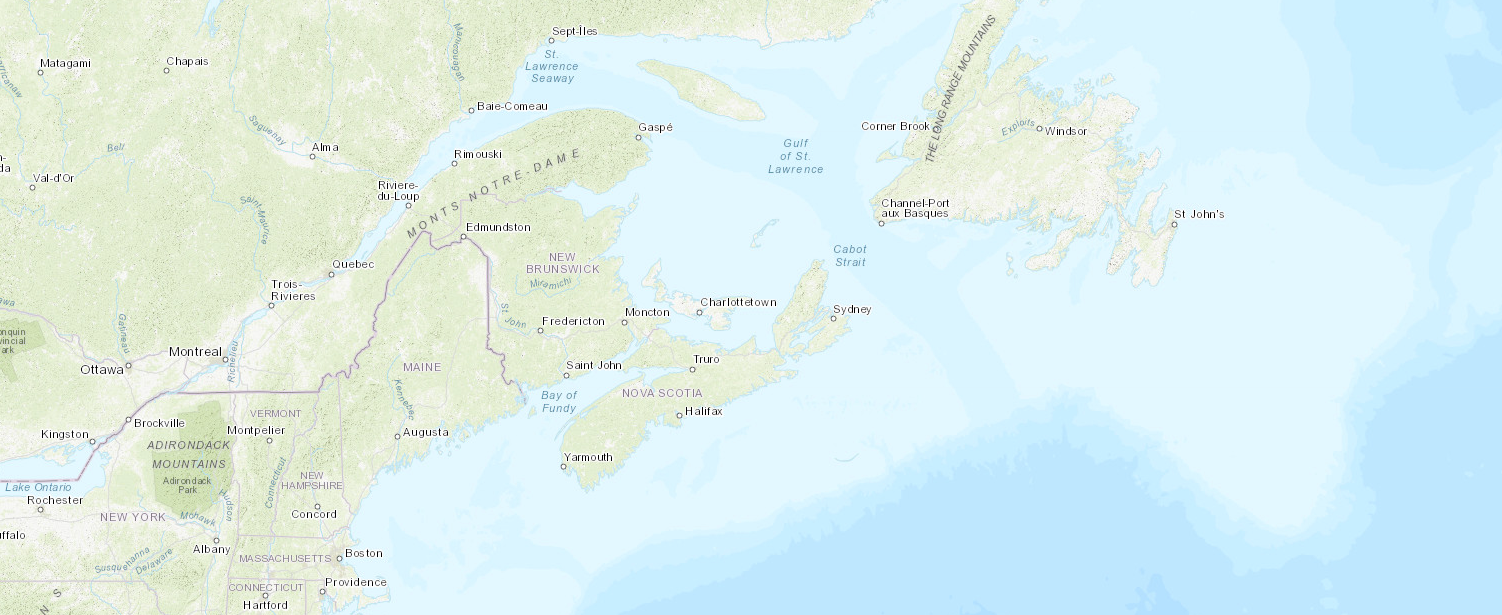
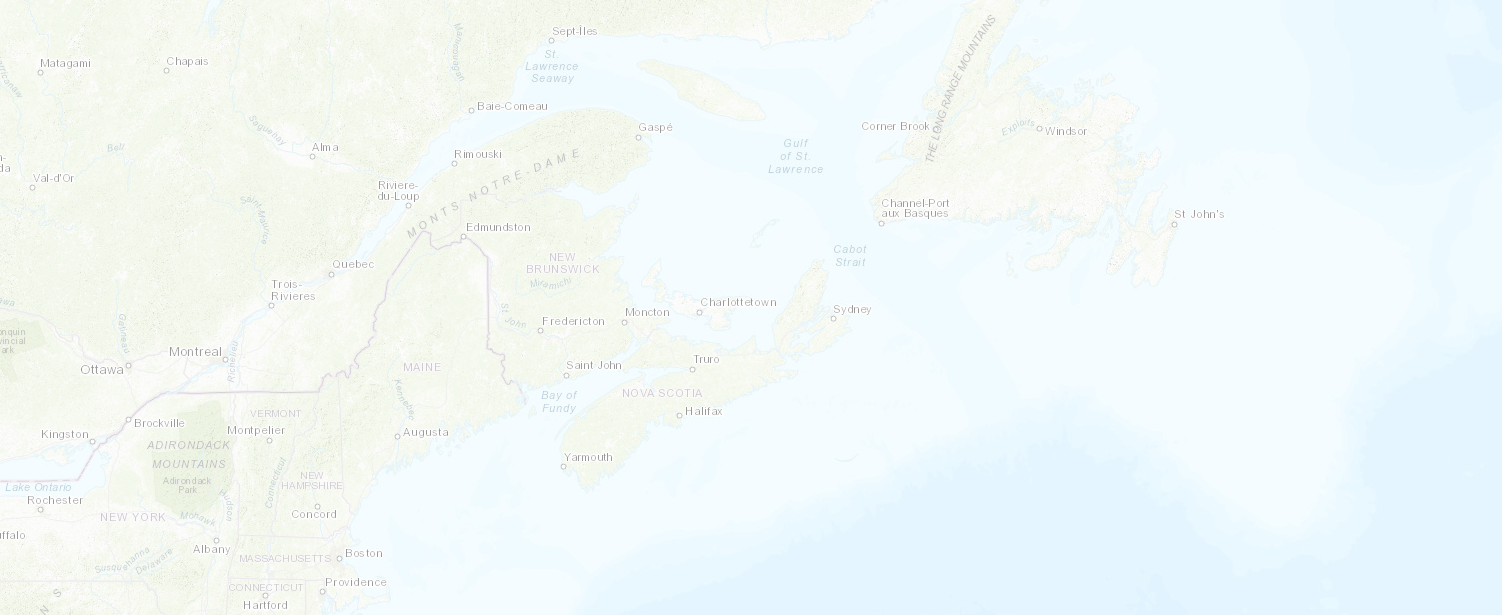
styling and map interactivity

diff --git a/src/index.js b/src/index.js
@@ -8,18 +8,19 @@ import photoModule from 'photos.js'
 
 function loadGpsTracks(map){
   const dayDescriptions = [
-    "Day 2 - First Driving Day - Peggy's Cove.",
-    "Day 3 - Halifax to Englishtown",
-    "Day 4 - Englishtown to Cheticamp",
-    "Day 5 - Cape Breton Park Adventures",
-    "Day 6 - PEI National Park",   
-    "Day 7 - PEI Summerside",   
-    "Day 8 - PEI Kayaking and Exploring the South Coast",   
-    "Day 9 - PEI Charlottetown",   
-    "Day 10 - PEI to St. Johns",   
-    "Day 11 - St. Johns to Moncton",   
-    "Day 11 - Hopewell Rocks",   
-    "Day 11 - Slacks Cove",   
+    "Day 2 First Driving Day - Peggy's Cove [249 km]",
+    "Day 3 Halifax to Englishtown [438 km]",
+    "Day 4 Englishtown to Cheticamp [168 km]",
+    "Day 5 Cape Breton Park Adventures [31 km]",
+    "Day 6 Getting to PEI [365 km]",  
+    "Day 7 PEI National Parks [200 km]",   
+    "Day 8 PEI Lighthouse Museum [239 km]",   
+    "Day 9 PEI Kayaking and Exploring the South Coast [124 km]",   
+    "Day 10 PEI Charlottetown [84 km]",   
+    "Day 11 PEI to St. Johns [421 km]",   
+    "Day 12 St. Johns to Moncton [231 km]",   
+    "Day 13 Hopewell Rocks [153 km]",   
+    "Day 14 Slacks Cove [117 km]",   
   ]
 
   const day2 = require('./gps/day-2-peggys-cove.geojson');
@@ -27,13 +28,14 @@ function loadGpsTracks(map){
   const day4 = require('./gps/day-4-englishtown-to-cheticamp.geojson');
   const day5 = require('./gps/day-5-cape-breton-park.geojson');
   const day6 = require('./gps/day-6-onto-pei.geojson');
-  const day7 = require('./gps/day-7-summerside.geojson');
-  const day8 = require('./gps/day-8-kayaking.geojson');
-  const day9 = require('./gps/day-9-charlottetown.geojson');
-  const day10 = require('./gps/day-10-pei-to-st-john.geojson')
-  const day11 = require('./gps/day-11-st-john-to-moncton.geojson');
-  const day12 = require('./gps/day-12-hopewell-rocks.geojson');
-  const day13 = require('./gps/day-13-slacks-cove.geojson');
+  const day7 = require('./gps/day-7-pei-national-park.geojson');
+  const day8 = require('./gps/day-8-summerside.geojson');
+  const day9 = require('./gps/day-9-kayaking.geojson');
+  const day10 = require('./gps/day-10-charlottetown.geojson');
+  const day11 = require('./gps/day-11-pei-to-st-john.geojson')
+  const day12 = require('./gps/day-12-st-john-to-moncton.geojson');
+  const day13 = require('./gps/day-13-hopewell-rocks.geojson');
+  const day14 = require('./gps/day-14-slacks-cove.geojson');
   const gpsTracks = [
     {track: day2, desc: dayDescriptions[0]},
     {track: day3, desc: dayDescriptions[1]},
@@ -47,6 +49,7 @@ function loadGpsTracks(map){
     {track: day11, desc: dayDescriptions[9]},
     {track: day12, desc: dayDescriptions[10]},
     {track: day13, desc: dayDescriptions[11]},
+    {track: day14, desc: dayDescriptions[12]},
   ]
 
   gpsTracks.forEach((gpsTrack) => gpsModule.addGpsTrack(map, gpsTrack))

diff --git a/src/static/main.css b/src/static/main.css
@@ -4,7 +4,6 @@
 
 #map-container {
     height:65%;
-    width: 100%;
     padding-left: 50px;
     padding-top: 40px;
     padding-right: 50px;
@@ -20,18 +19,27 @@
 
 #header {
     width: 100%; 
-    height: 15%;
+    /* height: 15%; */
     padding-left: 30px;
     padding-top: 10px;
 }
 
+#footer-stats-container {
+  display: flex;
+  flex-direction: row;
+  justify-content: space-around;
+}
+
 #footer-text-container {
-    margin-left: 40px; 
+  display: flex;
+  flex-direction: column;
+  margin-left: 40px; 
+  justify-content: space-between;
+  height: 80px;
 }
 
 #footer-text {
     margin: 0px;
-    height: 5%;
     font-family: 'Open Sans', sans-serif;
     color: #555;
     text-decoration: none;
@@ -46,23 +54,16 @@
 
 body {
     margin: 0;
-    /* background-image: url("background.png"); */
-    max-width: 1800px;
-}
-
-body::before {
-    content: "";
-    position: absolute;
-    top: 0; 
-    left: 0;
-    width: 100%; 
-    height: 100%;  
-    opacity: .4; 
-    z-index: -1;
     background-repeat: no-repeat;
     background-size: cover;
     background-image: url("background.png");
-  }
+    max-width: 1800px;
+}
+
+html, 
+body {
+    height: 100%;
+}
 
 #logo {
   font-family: 'Open Sans', sans-serif;
@@ -76,11 +77,34 @@ body::before {
   text-shadow: #EDEDED 3px 2px 0;
   position: relative;
 }
+
+@media only screen 
+and (min-device-width : 768px) 
+and (max-device-width : 1024px)  {
+  #logo {
+    font-size: 90px;
+  }
+  body {
+    max-width: 1024px;
+  }
+}
+
+@media only screen 
+and (max-device-width : 768px) {
+  #logo {
+    font-size: 90px;
+    }
+    body {
+      max-width: 950px;
+    }
+  
+  }
+
 #logo:after {
-  content:"East Coast Trip";
-  position: absolute;
-  left: 8px;
-  top: 32px;
+  content:"East Coast Trip 2019";
+  position: fixed;
+  left: 22px;
+  top: 18px;
 }
 #logo:after {
   /*background: url(https://subtlepatterns.com/patterns/crossed_stripes.png) repeat;*/

diff --git a/src/gps.js b/src/gps.js
@@ -10,23 +10,27 @@ const filterOnlyPointFeatures = function(features){
 }
 
 const lineWeight = 3;
-const lineOpacity = 0.3;
+const lineOpacity = 0.7;
+
+const onMouseover = (embeddedLayer) => {
+    embeddedLayer.bringToFront()
+    embeddedLayer.setStyle({
+        weight: lineWeight * 2,
+        opacity: 1.0
+    });
+}
+
+const onMouseout = (embeddedLayer) => {
+    embeddedLayer.setStyle({
+        weight: lineWeight,
+        opacity: lineOpacity
+    });
+}
 
 function onEachFeature(feature, outlineLayer, embeddedLayer) {
     outlineLayer.on({
-        mouseover: () => {
-            embeddedLayer.setStyle({
-                weight: lineWeight * 2,
-                opacity: 1.0
-            });
-        },
-        mouseout: () => {
-            embeddedLayer.setStyle({
-                weight: lineWeight,
-                opacity: lineOpacity
-            });
-        },
-        // click: zoomToFeature
+        mouseover: () => onMouseover(embeddedLayer),
+        mouseout: () => onMouseout(embeddedLayer)
     });
 }
 
@@ -58,7 +62,8 @@ const addGpsTrack = (() => {
 
         outlineLayer.addTo(map);
 
-        outlineLayer.bindPopup("Popup content");
+        
+        outlineLayer.bindPopup(gpsTrack.desc, { autoPan: false });
         outlineLayer.on('mouseover', function (e) {
             this.openPopup();
         });
@@ -70,7 +75,9 @@ const addGpsTrack = (() => {
         const lastPoint = points[points.length -1]
 
         L.marker(L.latLng(lastPoint.properties.latitude, lastPoint.properties.longitude), { color: dotColour})
-            .bindPopup(gpsTrack.desc)
+            .on('popupopen', () => onMouseover(embeddedLayer))
+            .on('popupclose', () => onMouseout(embeddedLayer))
+            .bindPopup(gpsTrack.desc, { autoPan: false })
             .addTo(map);
     }
 })();

diff --git a/index.html b/index.html
@@ -12,6 +12,17 @@
       <div id="map" class="fancy-border"></div>
     </div>
     <div id="footer-text-container">
+      <div id="footer-stats-container">
+        <p id="footer-text">
+          Total Distance: 2820 km
+        </p>
+        <p id="footer-text">
+          Provinces: 3
+        </p>
+        <p id="footer-text">
+          Value: Priceless
+        </p>
+      </div>
       <p id="footer-text">
         Merry Christmas Mom! Thank you so much for giving me the gift of this experience with you. I love you so much!!
       </p>
